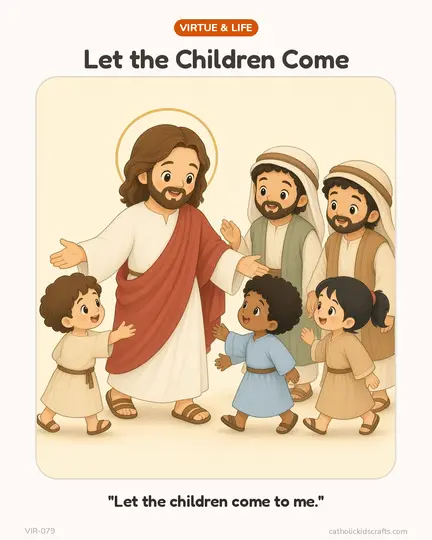
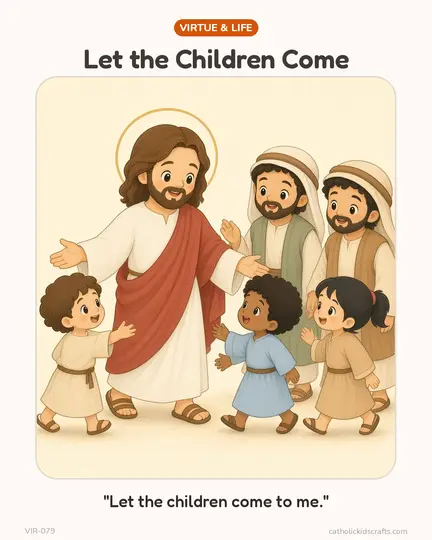
fix(virtues): use Fredoka medium for the Courage card captions
Painted captions have a 5px stem at this size. Weight 500 matches that, with the measured dark gray.

Changed region(s): [[0.2407, 0.9185, 0.7523, 0.9481]]

diff --git a/scripts/build-virtue-story-cards.py b/scripts/build-virtue-story-cards.py
@@ -22,7 +22,7 @@ FONT = Path("/tmp/ckc-fonts")
 PAGE = (254, 249, 246)  # #fef9f6
 PILL = (213, 84, 7)  # VIR-001 pill fill
 TITLE = (64, 58, 53)  # mode of the painted title ink
-CAPTION = (52, 46, 41)
+CAPTION = (51, 45, 41)  # median ink of the painted captions
 FOOT = (168, 162, 155)  # #a8a29b
 FRAME = (226, 220, 206)  # #e2dcce, the painted stroke
 W, H = 1080, 1350
@@ -61,9 +61,9 @@ def font(name: str, size: int) -> ImageFont.FreeTypeFont:
     return ImageFont.truetype(str(FONT / name), size)
 
 
-def fredoka_semibold() -> Path:
-    """Weight 600 of the site Fredoka. Painted titles match this stroke, not Nunito."""
-    dest = FONT / "Fredoka-600.ttf"
+def fredoka(weight: int) -> Path:
+    """A static instance of the site Fredoka variable font."""
+    dest = FONT / f"Fredoka-{weight}.ttf"
     if dest.exists():
         return dest
     FONT.mkdir(parents=True, exist_ok=True)
@@ -71,7 +71,7 @@ def fredoka_semibold() -> Path:
     from fontTools.varLib.instancer import instantiateVariableFont
 
     variable = TTFont(ROOT / "src/assets/fonts/fredoka-variable.ttf")
-    instantiateVariableFont(variable, {"wght": 600}, inplace=True)
+    instantiateVariableFont(variable, {"wght": weight}, inplace=True)
     variable.save(dest)
     return dest
 
@@ -145,7 +145,7 @@ def build(card: dict) -> Image.Image:
     # Fredoka semibold (wght 600), the painted title's stroke. Ink top y123, side margin at least 150px.
     # Size 66 matches "Jesus Blesses the Children" (ink about 49px, stem about 10px).
     title_size = 66
-    title_path = str(fredoka_semibold())
+    title_path = str(fredoka(600))
     while True:
         title_face = ImageFont.truetype(title_path, title_size)
         tw, _, tbox = text_size(draw, card["title"], title_face)
@@ -154,7 +154,8 @@ def build(card: dict) -> Image.Image:
         title_size -= 2
     draw.text(((W - tw) / 2 - tbox[0], 123 - tbox[1]), card["title"], font=title_face, fill=TITLE)
 
-    cap_face = ImageFont.truetype(title_path, 40)
+    # Fredoka medium (wght 500) at 42px: painted caption stem is 5px at ink height 30.
+    cap_face = ImageFont.truetype(str(fredoka(500)), 42)
     lines = card["caption_lines"] if "caption_lines" in card else [card["caption"]]
     y = 1238 if len(lines) == 1 else 1210
     for line in lines:
@@ -202,7 +203,7 @@ def check(path: Path, card_id: str) -> None:
     # Scene fills the well: a pixel just inside the frame is not page cream.
     assert dist(px[WELL[0] + 24, (WELL[1] + WELL[3]) // 2], PAGE) > 12
     # Caption ink low on the card, footer under it.
-    cap = [y for y in range(1160, 1320) if any(sum(px[x, y]) < 140 for x in range(120, 960, 3))]
+    cap = [y for y in range(1210, 1320) if any(sum(px[x, y]) < 220 for x in range(120, 960, 3))]
     assert cap and 1180 <= min(cap) <= 1260, (min(cap) if cap else None, max(cap) if cap else None)
     foot_y = None
     for y in range(1290, 1345):
